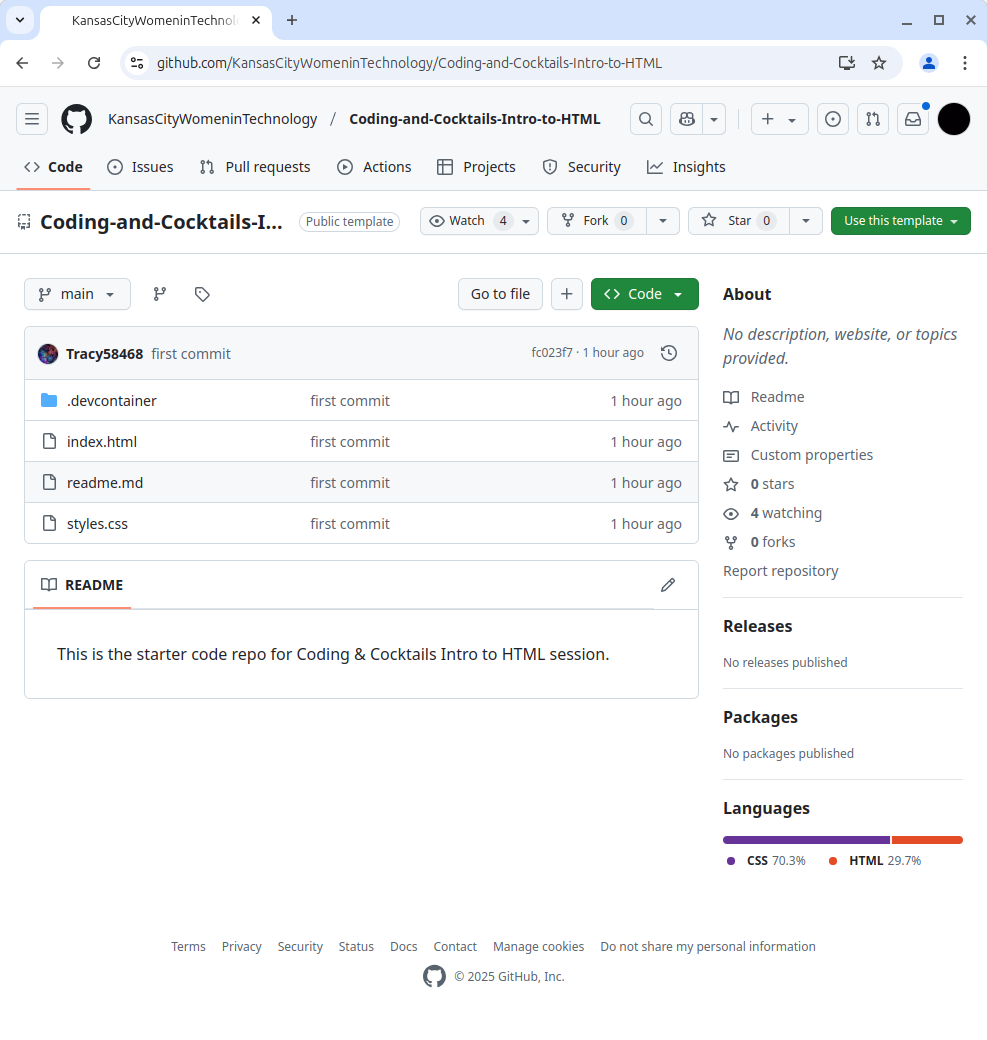
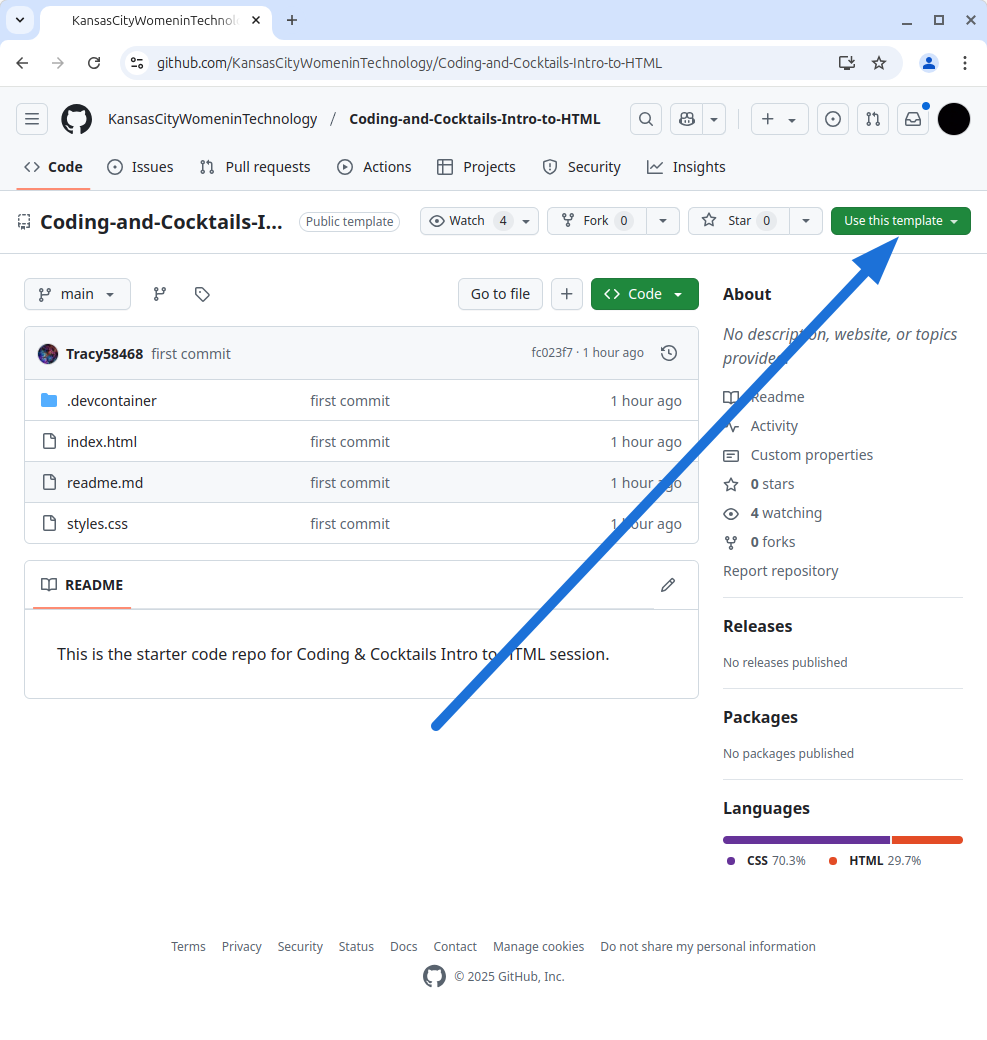
merge all changes from Tracy58468 fork to KCWIT master (#69)
* Edit Setup Readme, remove Stackblitz images in Setup, add GitHub images to Setup.

* add intro_repo_page.png and update starter code URL in HTML setup readme

* Add more screen shots and finish updating setup readme.

* Fix duplicates created by merge conflict resolution done incorrectly.

* Fix some indentation issues in HTML setup readme.md.

Changed region(s): [[0.4255, 0.2154, 0.9119, 0.7077]]

diff --git a/docs/html/setup/README.md b/docs/html/setup/README.md
@@ -8,10 +8,8 @@ Follow the instructions on this page to prepare your workspace.
 > Open [Slack](http://kcwit.slack.com/) to the **#codingandcocktails** channel. It's a great way to stay in touch with your Coding & Cocktails friends and to ask questions during and after the session. We'll also post updates and tips in Slack if we run in to any stumbling blocks today.
 
 > [!WARNING]
+> We will use a cloud development environment called **GitHub Codespaces**. In order to use Codespaces, you will need a GitHub account. Codespaces **only** works with Chrome, so it is important that you use Google Chrome for today. If you use a different browser, things will not behave as this tutorial expects.
 > We will use a cloud development environment called **GitHub Codespaces**. In order to use Codespaces, you will need a GitHub account. Codespaces **only** works with Chrome.
-
-> [!WARNING]
->This tutorial was written for use with Google Chrome, not Firefox, Brave, Edge, or Safari, so it is important that you use Google Chrome for today. If you use a different browser, things will not behave as this tutorial expects.
 
 > Navigate to [**GitHub**](https://github.com) to create a personal account or log in. Feel free to ask your mentor for help! When complete and logged in to GitHub, return here to continue the instructions.
 
@@ -21,33 +19,40 @@ We will use GitHub Codespaces for our workshop. GitHub Codespaces is a cloud dev
 
 1. Navigate to [**GitHub**](https://github.com/login) and log in with your GitHub account.
 
-![](./images/github_login.png ":class=image-border")
+    ![](./images/github_login.png ":class=image-border")
 
-2. Once you're signed in, navigate to [**the starter code repo**]https://github.com/KansasCityWomeninTechnology/Coding-and-Cocktails-Intro-to-HTML.
+2. Once you're signed in, navigate to [**the starter code repo**](https://github.com/KansasCityWomeninTechnology/Coding-and-Cocktails-Intro-to-HTML) and click the "Use this template" button in the upper right-hand corner of the screen.
 
-![](./images/intro_repo_page.png ":class=image-border")
-
-and click the "Use this template" button in the upper right-hand corner of the screen.
+    ![](./images/intro_repo_page.png ":class=image-border")
 
 3. Next, select the "Open in a codespace" option.
 
-![](./images/open_in_codespace.png ":class=image-border")
+    ![](./images/open_in_codespace.png ":class=image-border")
 
-4. Now you are ready to write some code! StackBlitz page is split into 3 different sections. On the far left is the project's file structure. The middle section is where you will write your code. The far right section is what your code looks like in a browser. Whenever you make a code change, you will see the change in the browser view as well.
+4. Now you are ready to write some code! The Codespace page is split into 3 different sections. On the far left is the project's file structure. The top right section is where you will write your code. The bottom right section is where you will find the terminal.
 
-![](./images/stackblitz-project-view.png ":class=image-border")
+    You may see a notification in the lower right-hand corner of the screen. You can dismiss this by clicking the "x".
 
-> [!TIP]
-> If you want to change the project name, you can do so by clicking the **lock icon** on the top center.
-> ![](./images/stackblitz-project-name-change.png ":class=image-border")
+    ![](./images/LiveServer_notification.png ":class=image-border")
+
+5. Double-click on the "index.html" file name in the explorer on the left. This will show the contents of that file in the upper right pane of the page.
+
+    ![](.images/index_html.png ":class=image-border")
+
+    To see what your code looks like in a browser, click on the "Go Live" button at the bottom of the page towards the right. This will pop a new (blank) tab into your browser. Whenever you make a code change, you will see the change in the browser view as well.
+
+    ![](./images/go_live.png ":class=image-border")
+
+    ![](.images/blank_page.png ":class=image-border")
 
 > [!TIP]
 > View the worksheet and your IDE in split screen.
 >
-> If you click the **Close** button on top right, it will close the browser view and you will have a wider code section.
-> ![](./images/stackblitz-open-tab.png ":class=image-border")
-> If you want to open the browser view in a new tab, click **Open in New Tab**
-> You can always have code on one half of the screen and browser in the other half.
+> If you want to open the browser view in a new window, right click on the tab and select "Move tab to new window." Then you can put the browser view of your web page on half of your screen and the IDE on the other half.
+>
+> ![](.images/move_to_new_window.png ":class=image-border")
+>
+> ![](.images/side_by_side.png ":class=image-border")
 >
 > If you have any questions, feel free to ask. Mentors are happy to help!
 
